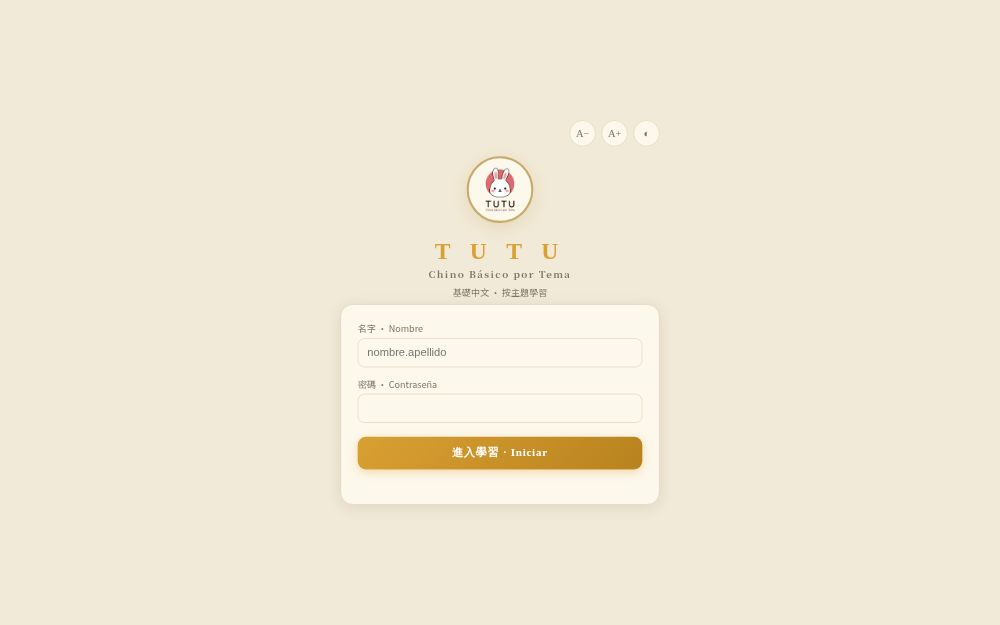
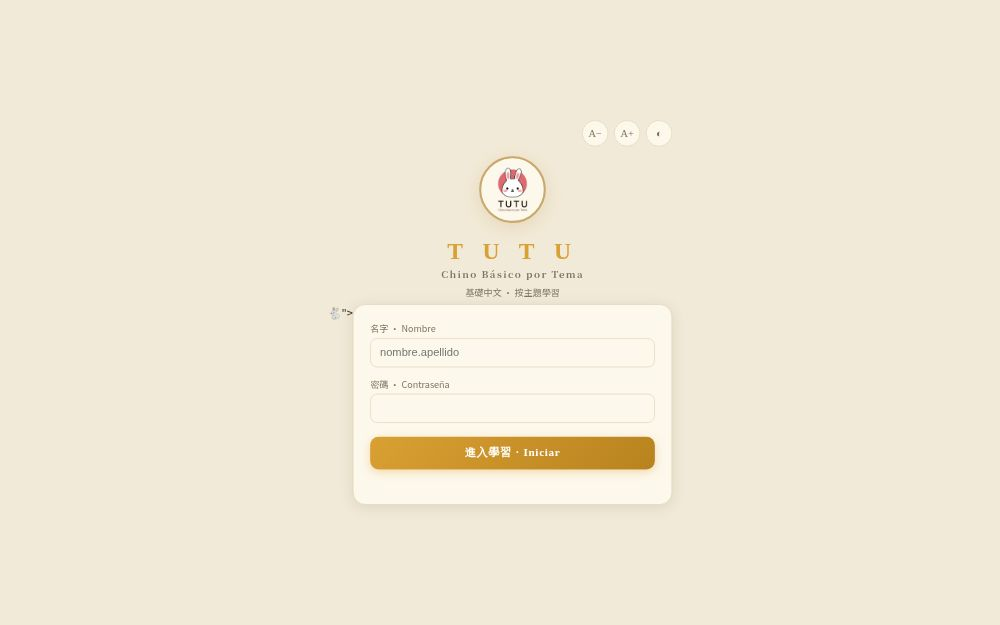
feat(panel): show per-card grant summary (hanzi/words/clf group counts) when selecting a student

diff --git a/index.html b/index.html
@@ -165,6 +165,7 @@ footer{margin-top:18px;font-size:12px;color:var(--sub)}
       <div class="tp-student" id="tpStudent">
         <div class="tp-name" id="tpName"></div>
         <div class="tp-stats" id="tpStats"></div>
+        <div class="tp-stats" id="tpGrantSum" style="margin-top:2px;"></div>
         <div class="tp-switch">
           <label><input type="checkbox" id="swTarjetas"> 📚 閃卡入口</label>
         </div>
@@ -213,7 +214,7 @@ const db = getFirestore(fb);
 
 let zlvl = 3;
 const ZOOMS = [0.85, 0.92, 1.0, 1.1, 1.2];
-const VER = "20261001l"; // 版本戳：三卡/筆記連結帶此值繞過 CDN 快取
+const VER = "20261001m"; // 版本戳：三卡/筆記連結帶此值繞過 CDN 快取
 window.zoom = d => {
   zlvl = Math.max(1, Math.min(5, zlvl + d));
   document.documentElement.style.zoom = ZOOMS[zlvl-1]; try{localStorage.setItem("tt-zoom", ZOOMS[zlvl-1]);}catch(e){};
@@ -405,6 +406,20 @@ async function showStudent(email){
   const last = rawLast ? (rawLast.toDate ? rawLast.toDate() : new Date(rawLast)).toLocaleString("zh-TW") : "—";
   const notasOpen = st.notasOpen ? (st.notasOpen.count||1) : 0;
   $("tpStats").textContent = "最後活動：" + last + " · 看筆記次數：" + notasOpen;
+  // 開放摘要：三張卡各自已開放幾組
+  const gz = (g.hanzi && g.hanzi.batches) ? g.hanzi.batches.length : 0;
+  const gw = (g.words && g.words.cats) ? g.words.cats.length : 0;
+  const gc = (g.clf && g.clf.batches) ? g.clf.batches.length : 0;
+  const sumEl = document.getElementById("tpGrantSum");
+  if(sumEl){
+    const part = [];
+    if(gz > 0) part.push("漢字卡 " + gz + " 組");
+    if(gw > 0) part.push("單詞卡 " + gw + " 組");
+    if(gc > 0) part.push("量詞卡 " + gc + " 組");
+    sumEl.innerHTML = part.length
+      ? '<span style="color:#2e7d32;">已開放：' + part.join(" · ") + '</span>'
+      : '<span style="color:#c0392b;">尚未開放任何閃卡內容（三卡均 0 組）</span>';
+  }
   $("goTarjetas").href = "#tarjetas";
   $("goTarjetas").onclick = () => {
     $("cardmods").style.display = "block";
